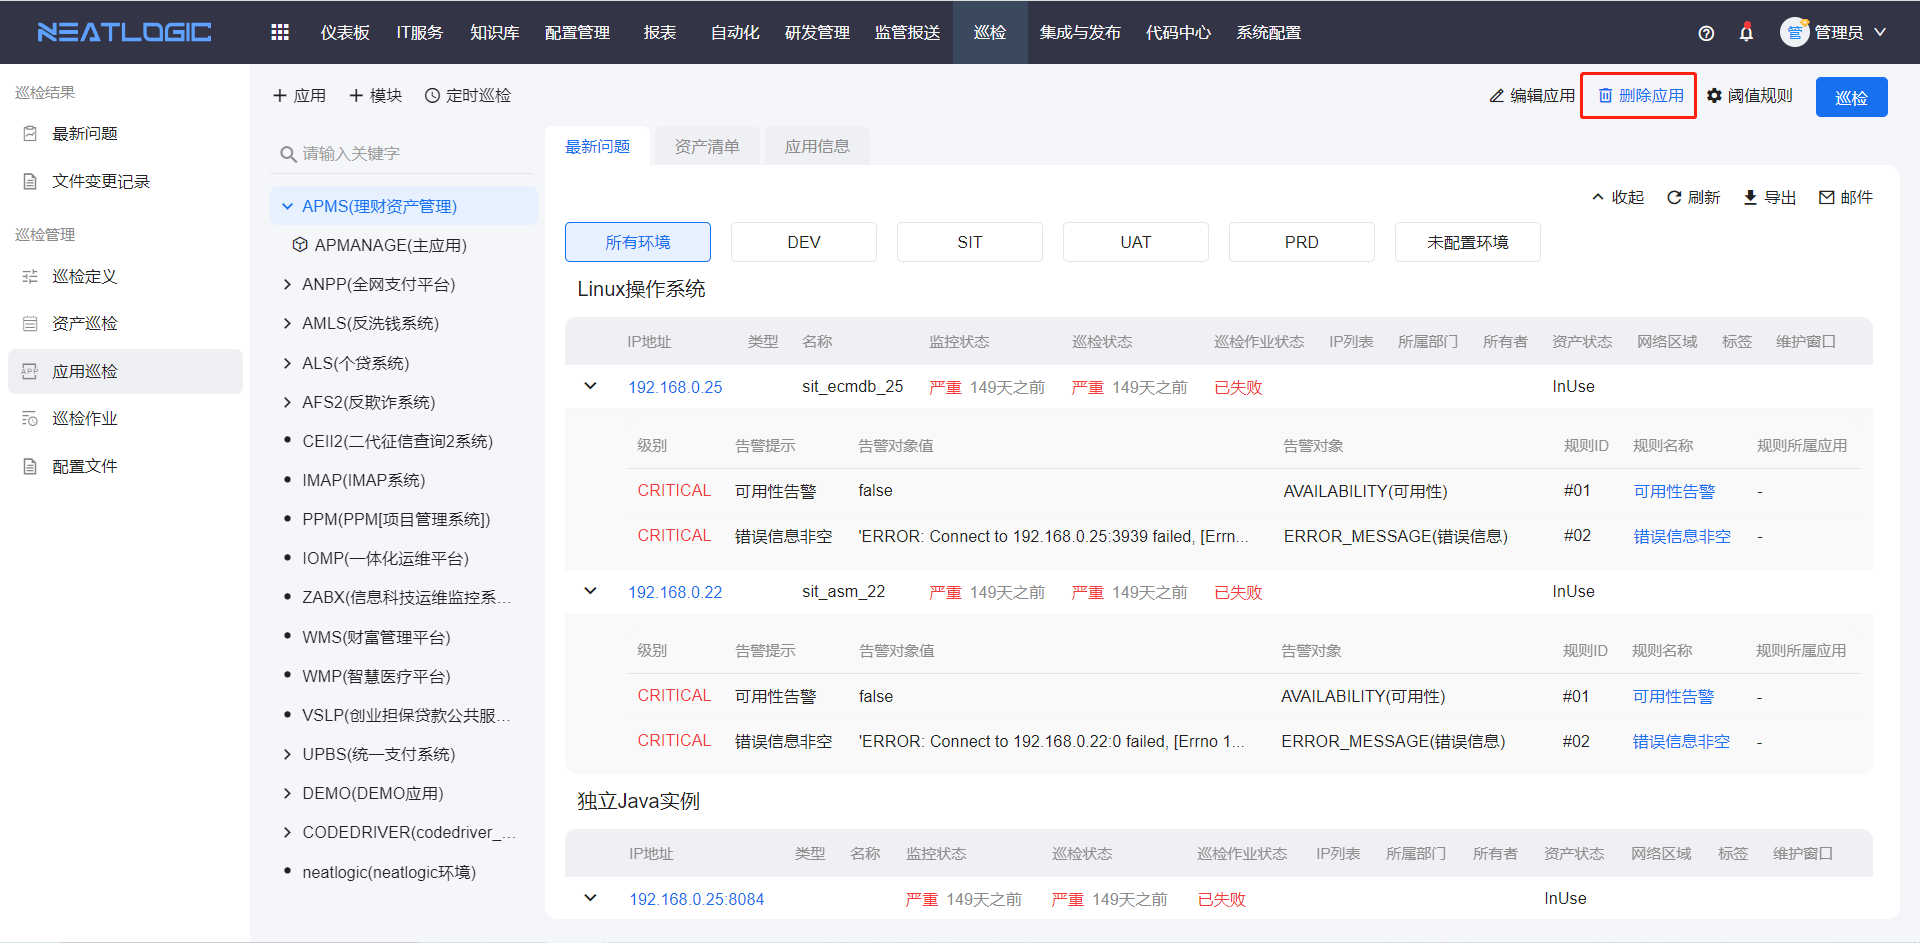
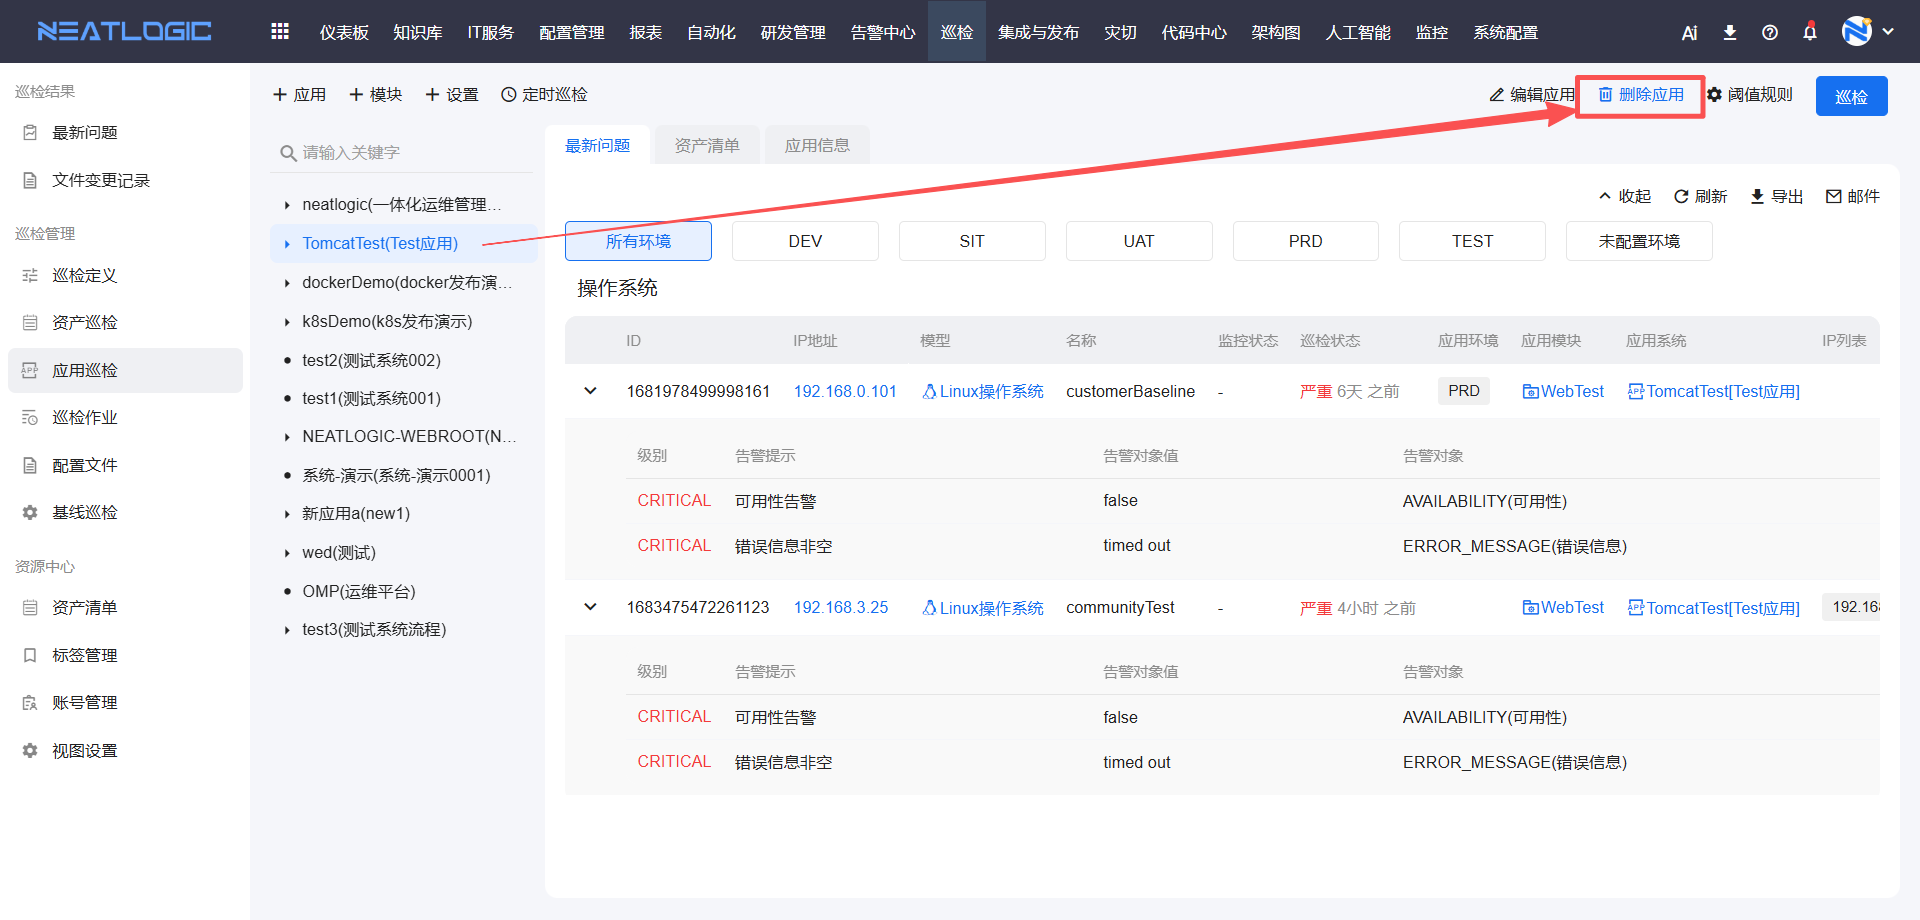
更新应用巡检的纳管功能

diff --git a/src/main/resources/neatlogic/resources/documentonline/zh/4.巡检/巡检管理/应用巡检.md b/src/main/resources/neatlogic/resources/documentonline/zh/4.巡检/巡检管理/应用巡检.md
@@ -11,11 +11,57 @@
 
 ### 编辑
 选择需要编辑的应用或模块进行修改。
-![](images/应用巡检_编辑.gif)
+![](images/应用巡检_编辑.png)
 
 ### 删除
 选择需要删除的应用或模块进行删除。
 ![](images/应用巡检_删除.png)
+
+## 设置
+应用巡检页面支持设置功能，包括资产清单设置和纳管应用设置。相关权限为巡检管理员权限。
+
+### 资产清单设置
+资产清单设置用于配置资产清单的数据配置，每个数据配置会在资产清单Tab中生成一个独立的表格。支持添加多个数据配置，以满足不同场景的资产展示需求。
+
+![](images/应用巡检_资产清单设置.png)
+
+#### 数据配置
+每个数据配置包含以下内容：
+
+- **资产清单**：选择模板类型为"应用清单资产详情"的自定义视图。视图需提前在[视图设置](../资源中心/视图设置.md)中创建。
+- **表头属性**：选择需要在表格中显示的属性列，如IP地址、名称、状态、环境等。
+- **属性排序**：支持对已选择的表头属性进行拖动排序，调整列的显示顺序。
+
+#### 操作说明
+
+**添加数据配置：**
+1. 点击"添加数据"按钮，创建新的数据配置。
+2. 在资产清单下拉框中选择视图。
+3. 在表头属性列表中，勾选需要显示的属性。
+4. 通过拖动调整属性的显示顺序。
+5. 点击保存完成配置。
+
+**编辑数据配置：**
+选择需要修改的数据配置，编辑资产清单或表头属性，保存后生效。
+
+**删除数据配置：**
+选择需要删除的数据配置，点击删除按钮，确认后保存设置。删除后，资产清单Tab中对应的表格将不再显示。
+
+![](images/应用巡检_数据配置.png)
+
+### 纳管应用设置
+纳管应用设置用于选择需要在应用巡检中显示的应用。支持以下配置方式：
+
+- **全部应用**：选择"全部应用"选项，应用巡检将显示所有应用。
+- **指定应用**：手动选择需要纳管的应用，仅选中的应用会在应用巡检中显示。
+- **清空选择**：若未选择任何应用，则应用清单为空。
+
+![](images/应用巡检_纳管应用设置.png)
+
+**操作步骤：**
+1. 点击页面左上方的"设置"按钮，打开设置对话框。
+2. 在"纳管应用"标签页中，选择需要纳管的应用。
+3. 点击确认保存设置，应用巡检页面将根据配置显示相应的应用列表。
 
 ## 巡检操作
 选择需要执行巡检的应用或模块，点击巡检按钮，选择需要巡检的模块及环境并确认，即可对包含的所有资产对象进行巡检。相关权限为巡检单个执行或批量执行权限。
